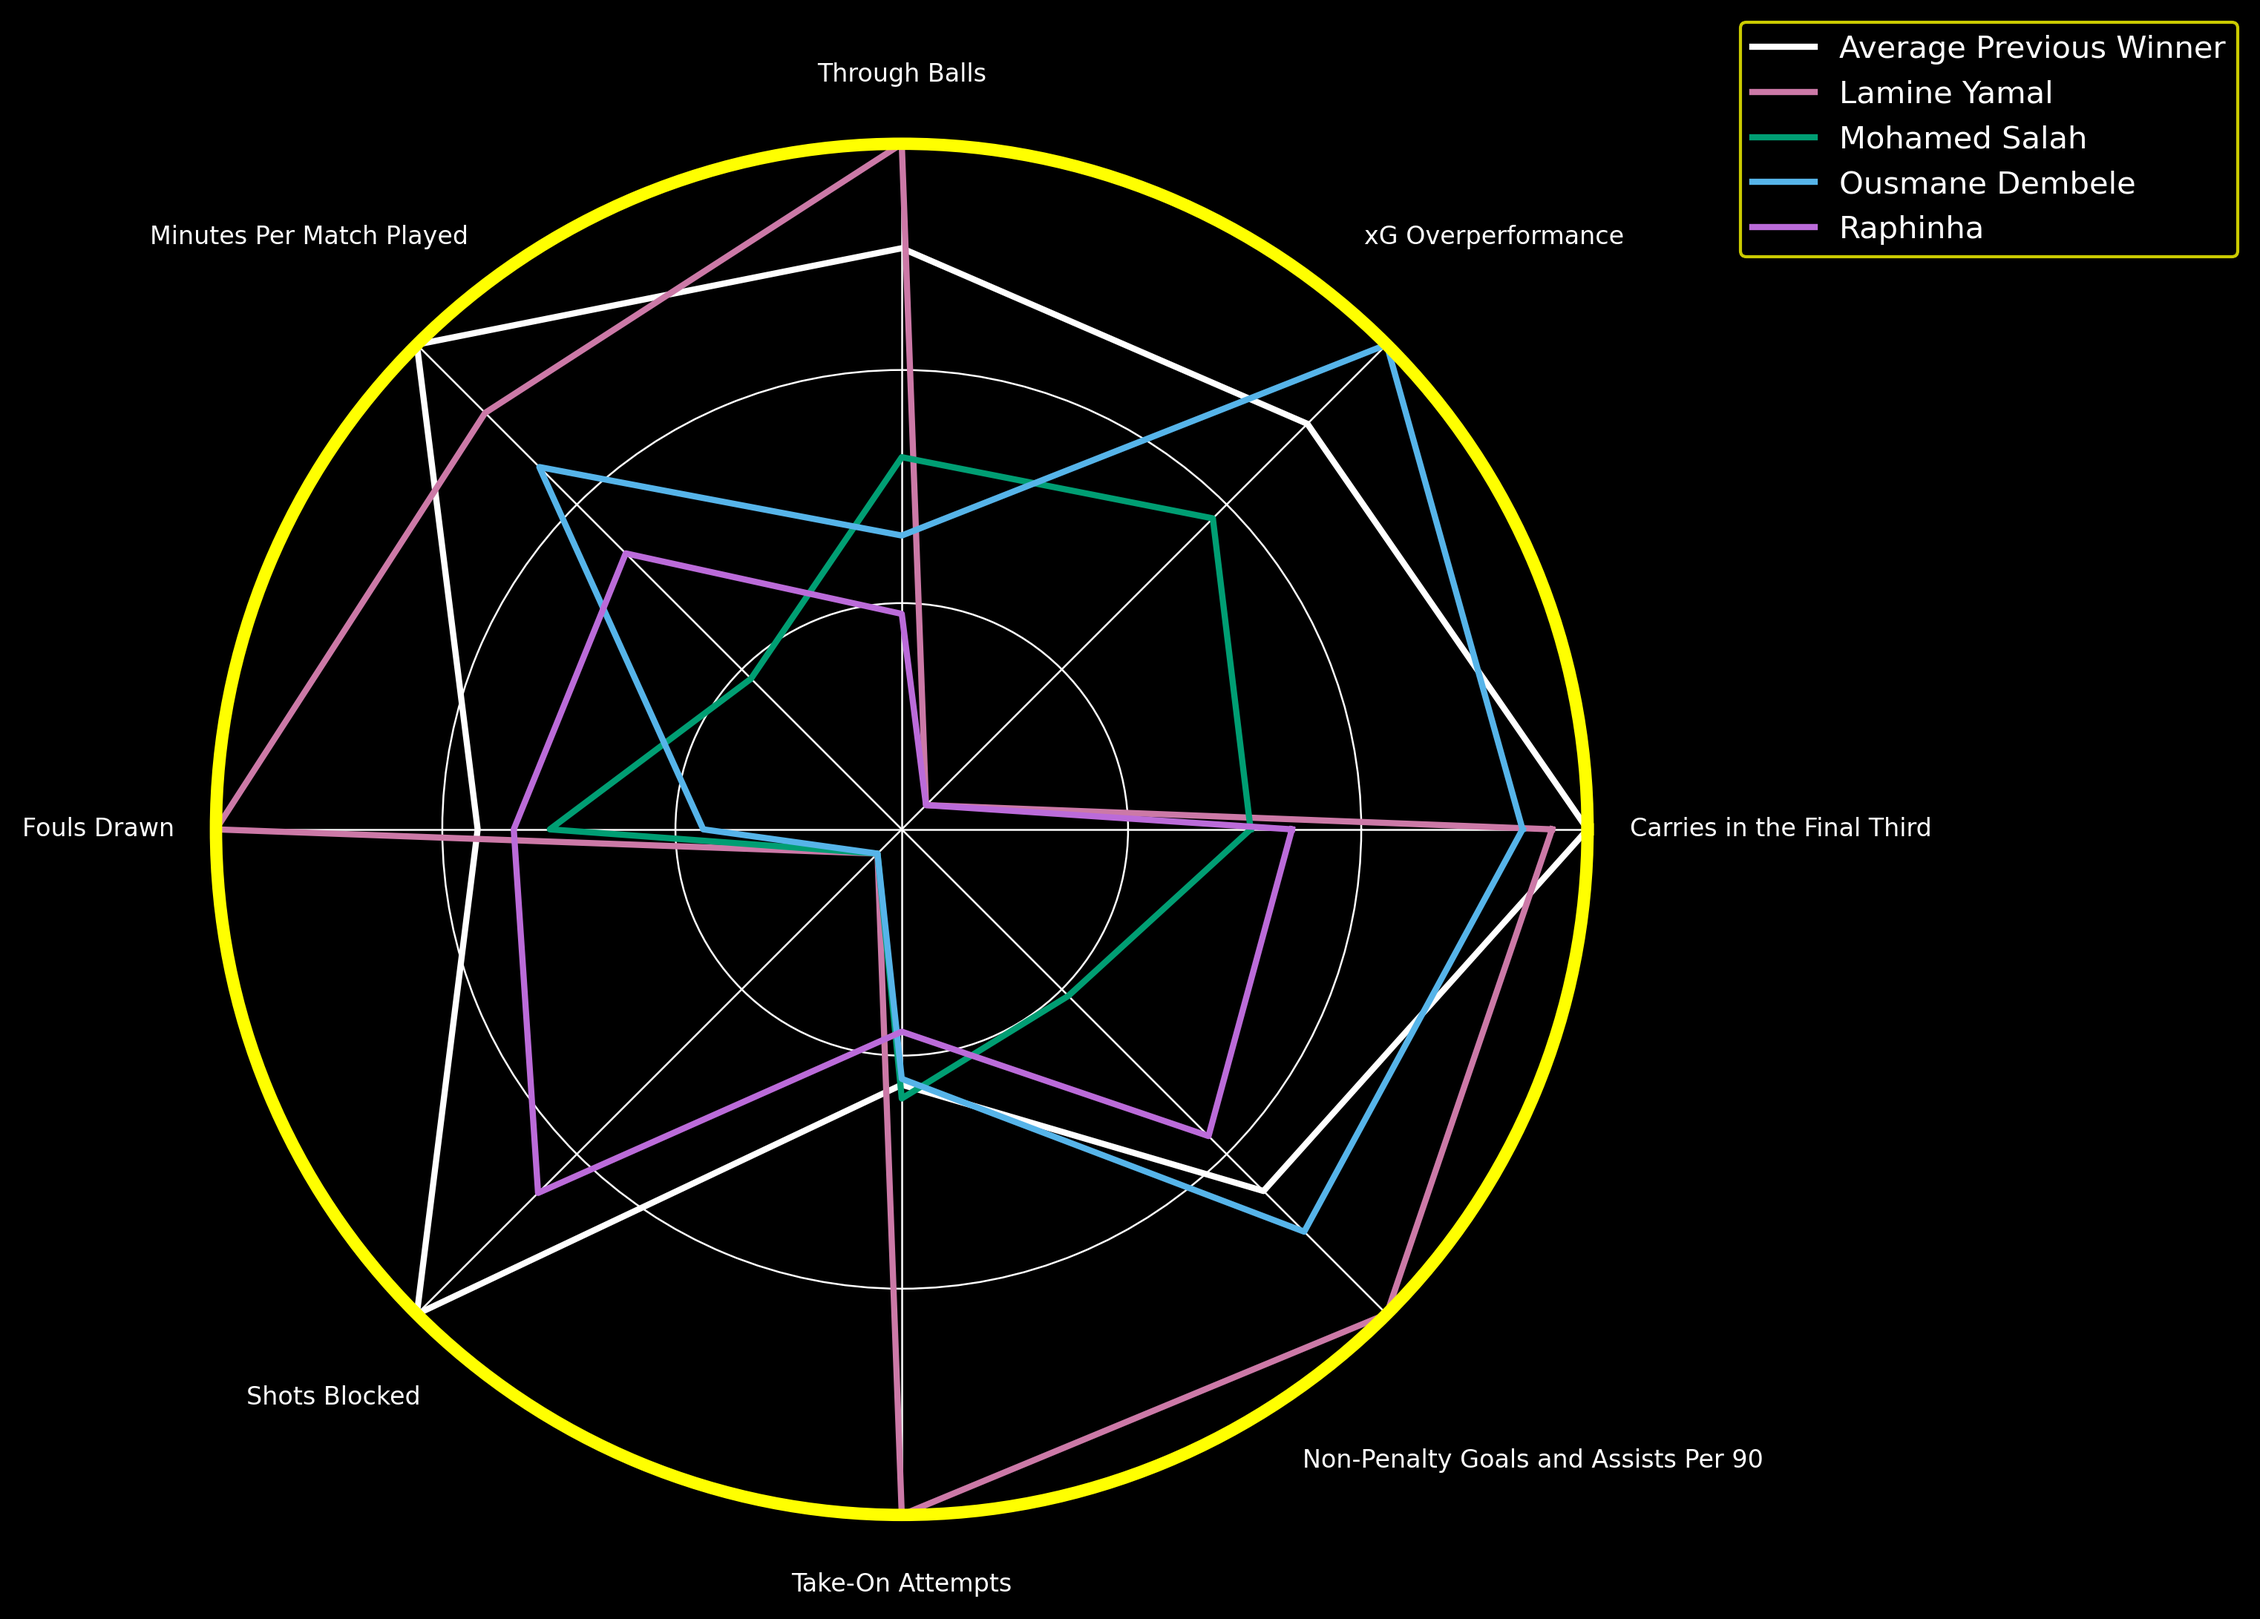
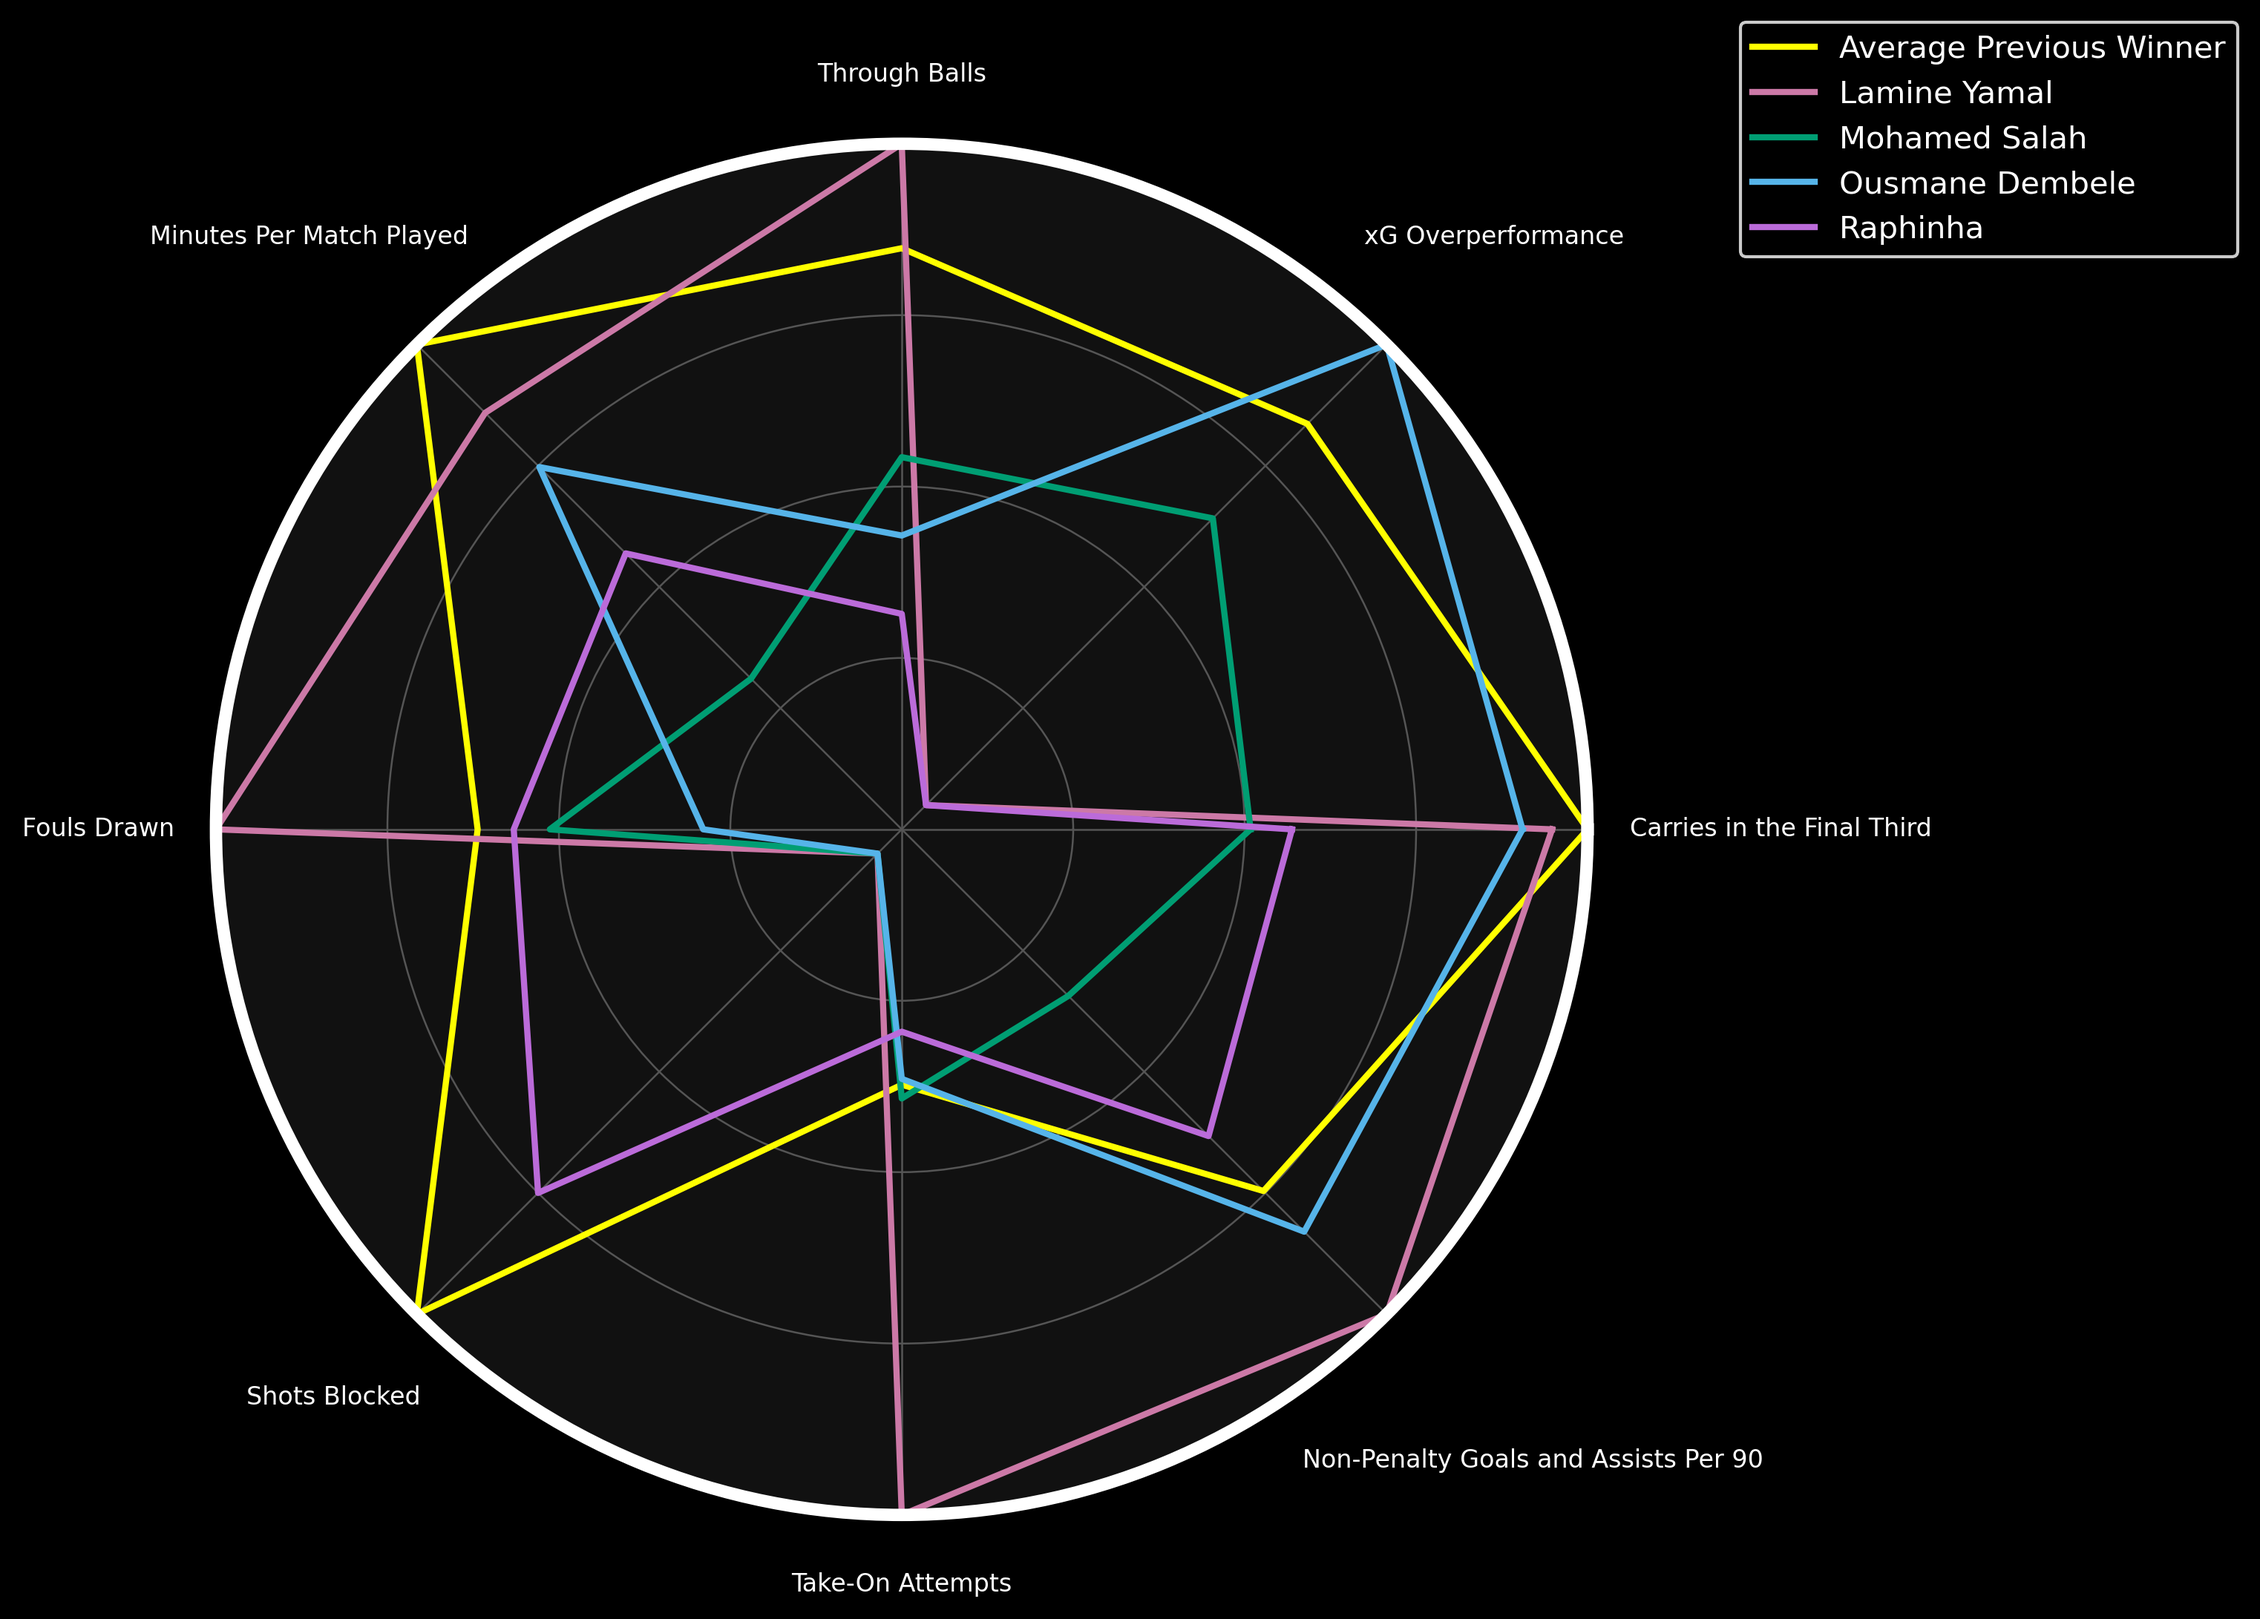
adjusted spider chart optics

diff --git a/analysis/retrospective/past_profiles.py b/analysis/retrospective/past_profiles.py
@@ -61,15 +61,15 @@ angles += [angles[0]]
 fig, ax = plt.subplots(figsize=(8, 8), subplot_kw=dict(polar=True))
 
 fig.patch.set_facecolor('black')
-ax.set_facecolor('black')
-ax.spines['polar'].set_color('yellow')
+ax.set_facecolor('#111111')
+ax.spines['polar'].set_color('white')
 ax.spines['polar'].set_linewidth(4)
 ax.tick_params(colors='white', labelsize=8)
 
-ax.grid(color='white', linestyle='-', linewidth=0.6)
+ax.grid(color='#555555', linestyle='-', linewidth=0.6)
 
 colors = {
-    'Average Previous Winner': '#ffffff',
+    'Average Previous Winner': 'yellow',
     'Lamine Yamal': '#CC79A7',
     'Ousmane Dembele': '#56B4E9',
     'Mohamed Salah': '#009E73',
@@ -80,10 +80,11 @@ ax.set_ylim(0, 1)
 ax.tick_params(pad=12)
 ax.spines['polar'].set_linewidth(4)
 
-ax.set_xticks(angles[:-1])
-ax.set_xticklabels(stat_cols, fontsize=8, color='white')
-ax.set_yticks([0.33, 0.67])
-ax.set_yticklabels([], color='white')
+ax.set_xticklabels(stat_cols, fontsize=9, color='#FFD700', fontweight='medium')
+
+ax.set_yticklabels([])
+ax.set_yticks([0.25, 0.5, 0.75, 1])
+ax.tick_params(colors='white', labelsize=8)
 
 for label, row in profiles.groupby('Name'):
     vals = row.iloc[0][stat_cols].tolist()
@@ -103,7 +104,7 @@ for i, label in enumerate(ax.get_xticklabels()):
     elif stat_cols[i] in ['Fouls Drawn','Shots Blocked',]:
         label.set_y(label.get_position()[1] - 0.07)
 
-ax.legend(loc='upper left', bbox_to_anchor=(1.1, 1.1), frameon=True, facecolor='black', edgecolor='yellow', labelcolor='white')
+ax.legend(loc='upper left', bbox_to_anchor=(1.1, 1.1), frameon=True, facecolor='black', edgecolor='white', labelcolor='white')
 
 plt.savefig(f'analysis/graphs/winner_spider.png', dpi=300, bbox_inches='tight')
 
